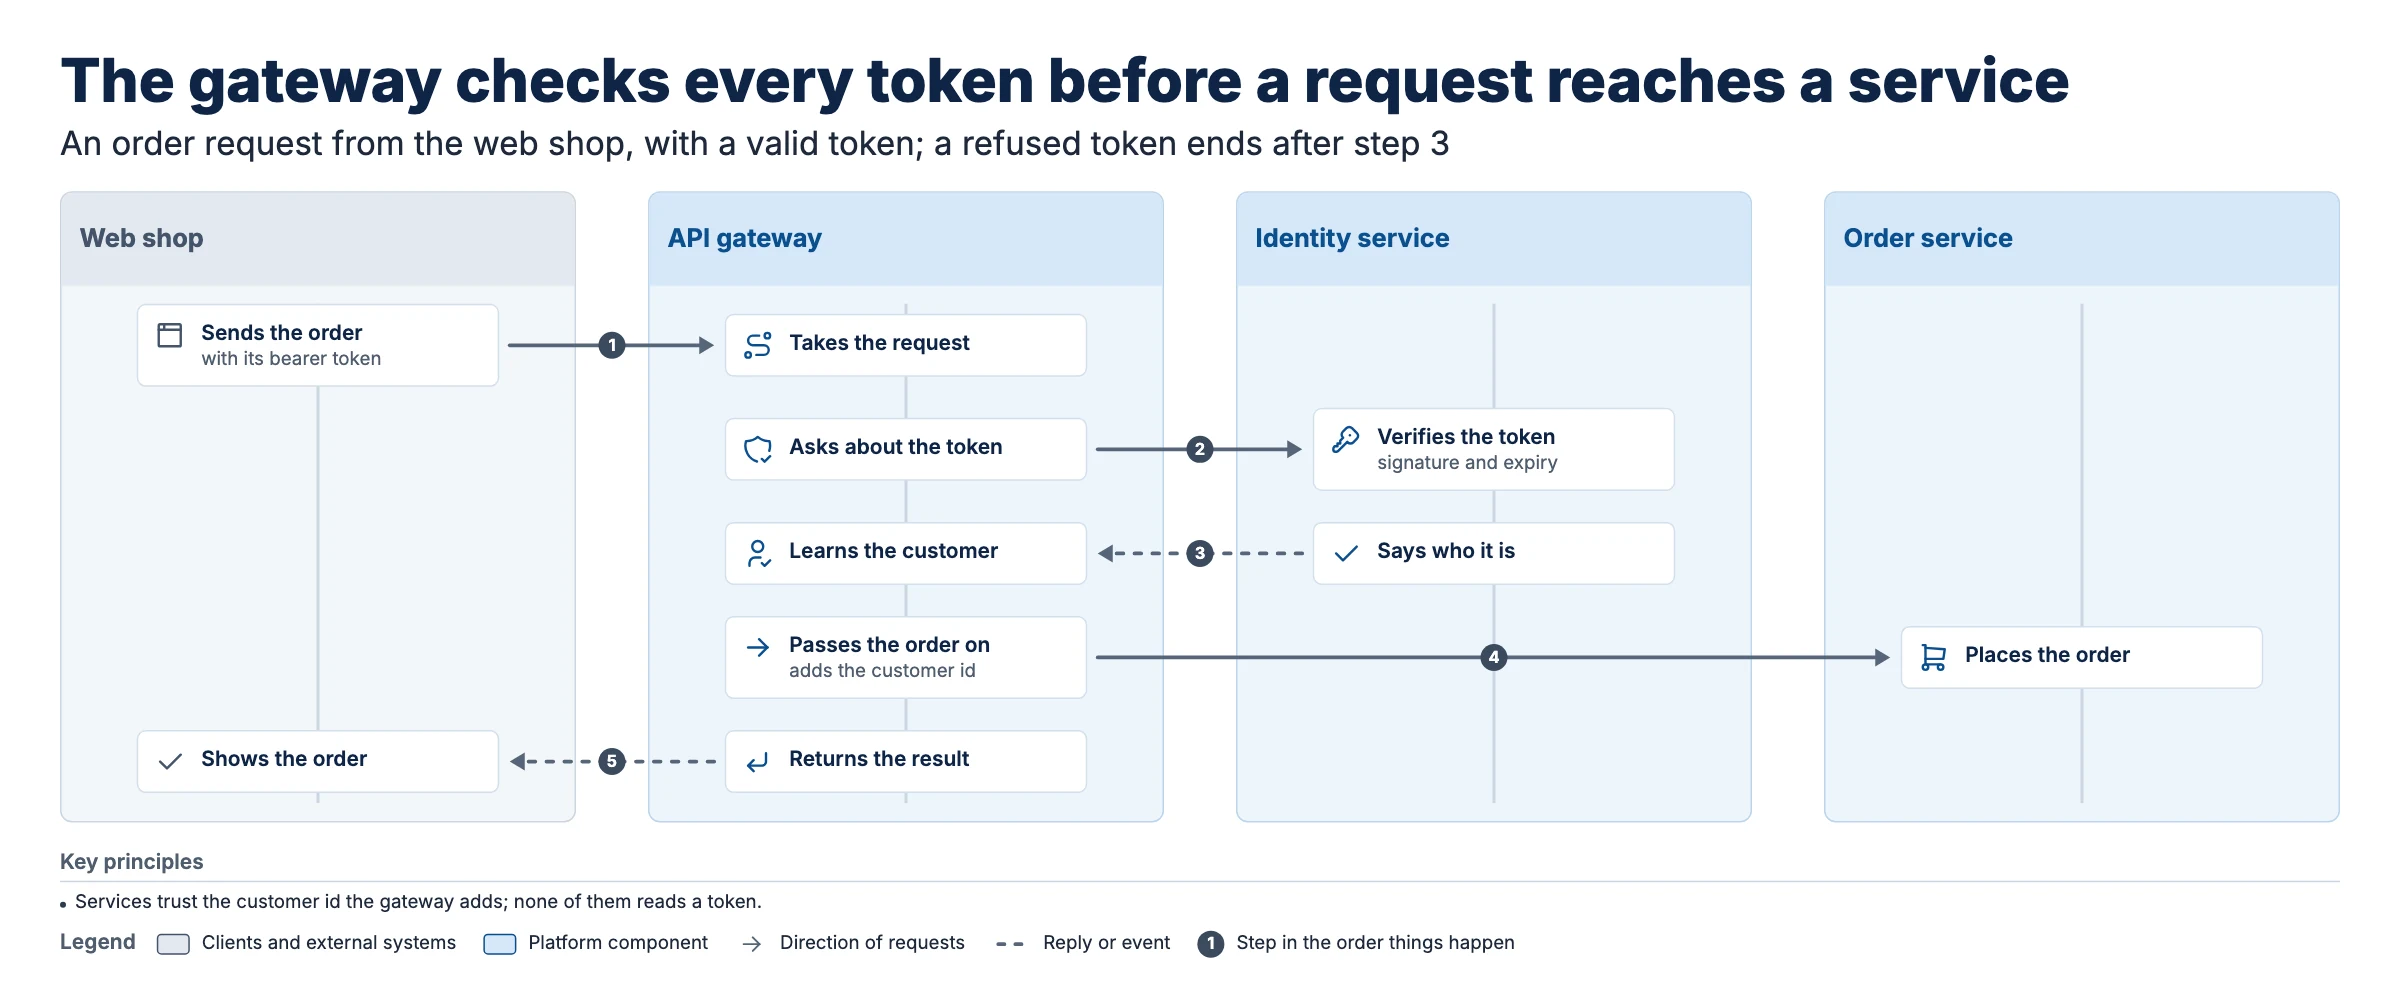
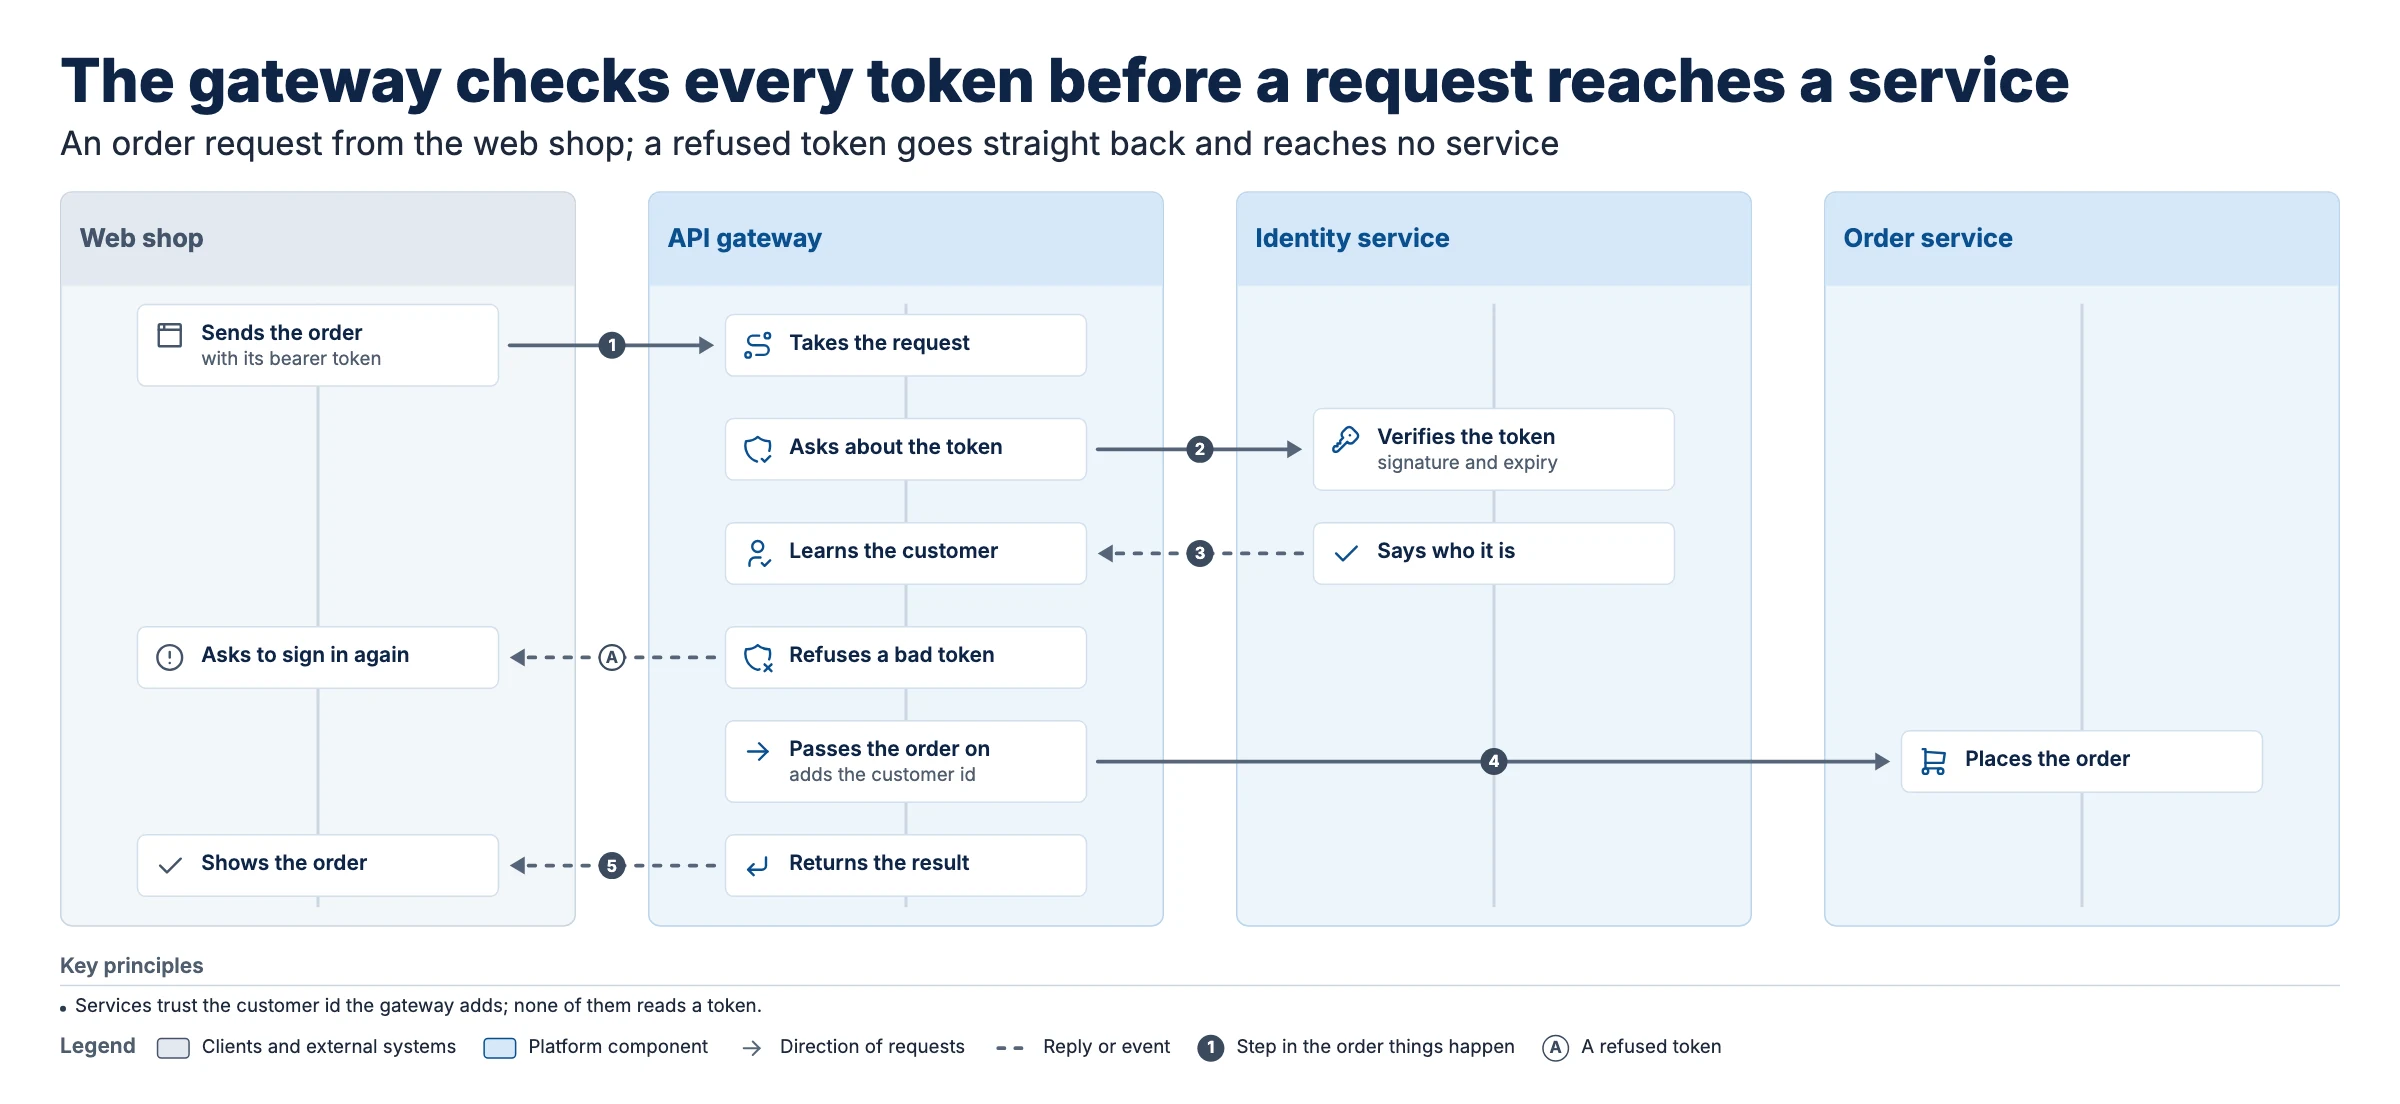
Letter one branch on a sequence, and draw it in the example
Five of six sequence plates in the last eval named a decline in the subtitle and drew nothing: the layout kept to one
path, and its own example told of a refused token it did not draw. A drawn story on a sequence is now a branch off the
numbered order: its messages are lettered A, B, the numbers pass over them, and the legend names it. The example draws
its refused token that way (its picture changes: one more row, badge A), and the guide says the caller from outside is
`external`, as the legend already calls that colour.

diff --git a/schemantic/archetypes/sequence.py b/schemantic/archetypes/sequence.py
@@ -1,7 +1,11 @@
 """sequence: who talks to whom, in what order, for one request. One column per participant with its lifeline, time
 running down; a card's `row` says when it acts, and each message is an arrow between two cards in one row, numbered by
-row. A card is what that participant does at that moment."""
+row. A card is what that participant does at that moment. A drawn story is a branch off that order (a decline, a refusal):
+its messages are lettered, and the numbers pass over them."""
 from __future__ import annotations
+
+from itertools import pairwise
+from string import ascii_uppercase
 
 from ..findings import finding
 from . import Archetype, GridSpec
@@ -40,6 +44,8 @@ class Sequence(Archetype):
                 out.append(finding("layout", p["id"], "every card on a lifeline needs `row`, the moment it acts"))
             for r in sorted({r for r in rows if r and rows.count(r) > 1}):
                 out.append(finding("layout", p["id"], f"two cards in row {r}; a participant does one thing per row"))
+        drawn = [n for n, s in enumerate(spec.get("stories", [])) if s.get("draw")]
+        out += [finding("layout", f"stories/{n}", "a sequence letters one branch; a second branch is a second plate") for n in drawn[1:]]
         taken: dict[int, str] = {}
         for i, f in enumerate(spec.get("flows", [])):
             a, b = at.get(f["from"]), at.get(f["to"])
@@ -66,12 +72,14 @@ class Sequence(Archetype):
         return set(spec["layout"]["participants"])
 
     def expand(self, spec: dict) -> dict:
-        """Number the messages by row, unless a drawn story numbers its own route."""
-        if any(s.get("draw") for s in spec.get("stories", [])):
-            return spec
+        """Number the messages by row. A drawn story is a branch: its messages get letters, and the numbers pass over them."""
         at = self.where(spec)
-        order = sorted({at[f["from"]][1] for f in spec.get("flows", []) if f["from"] in at})
-        return {**spec, "flows": [{**f, "step": f.get("step") or order.index(at[f["from"]][1]) + 1} for f in spec.get("flows", [])]}
+        branch = next((s["path"] for s in spec.get("stories", []) if s.get("draw")), [])
+        letter = {pair: ascii_uppercase[i] for i, pair in enumerate(pairwise(branch))}
+        pair = lambda f: (f["from"], f["to"])  # noqa: E731
+        order = sorted({at[f["from"]][1] for f in spec.get("flows", []) if f["from"] in at and pair(f) not in letter})
+        return {**spec, "flows": [{**f, "step": letter.get(pair(f)) or f.get("step") or order.index(at[f["from"]][1]) + 1}
+                                  for f in spec.get("flows", [])]}
 
     def panel_defaults(self, spec: dict, panel: dict) -> dict:
         if panel["id"] not in spec["layout"]["participants"]:

diff --git a/tests/test_archetypes.py b/tests/test_archetypes.py
@@ -43,17 +43,24 @@ def test_sequence_checks(fn, says):
 
 
 def test_a_lifeline_holds_twelve_cards_and_other_panels_six():
-    many = [{"name": f"Step {n}", "row": n, **({"id": "place"} if n == 4 else {})} for n in range(1, 13)]
+    many = [{"name": f"Step {n}", "row": n, **({"id": "place"} if n == 5 else {})} for n in range(1, 13)]
     assert not details(SEQUENCE, lambda s: panel(s, "orders").update(cards=many))
     assert details(SEQUENCE, lambda s: panel(s, "orders").update(cards=[*many, {"name": "x", "row": 12}]))  # the schema's cap
     assert any("a panel holds 6" in d for d in details(MAP, lambda s: panel(s, "sell").update(cards=[{"name": f"C{n}"} for n in range(7)])))
 
 
-def test_sequence_numbers_its_messages_by_row_and_a_drawn_story_keeps_its_own():
+def test_sequence_numbers_its_messages_by_row_and_letters_one_branch():
+    """The example's refused token is a drawn story: its message is lettered, and the numbers pass over it."""
     arche = archetypes.get("sequence")
-    assert [f["step"] for f in arche.expand(SEQUENCE)["flows"]] == [1, 2, 3, 4, 5]
-    drawn = {**SEQUENCE, "stories": [{"name": "Out", "path": ["send", "take"], "draw": True}]}
-    assert "step" not in arche.expand(drawn)["flows"][0]
+    expanded = sp.number_story(arche.expand(SEQUENCE))
+    assert [f["step"] for f in expanded["flows"]] == [1, 2, 3, "A", 4, 5]
+    from schemantic.html import legend_entries
+    steps = [(e["mark"], e["label"]) for e in legend_entries(expanded, sp.load_locale("en")) if e["kind"] == "step"]
+    assert steps == [("1", "Step in the order things happen"), ("A", "A refused token")]
+    plain = {**SEQUENCE, "stories": []}
+    assert [f["step"] for f in arche.expand(plain)["flows"]] == [1, 2, 3, 4, 5, 6]
+    two = {**SEQUENCE, "stories": SEQUENCE["stories"] + [{"name": "Out", "path": ["send", "take"], "draw": True}]}
+    assert any("letters one branch" in f["detail"] for f in sp.check(two))
 
 
 @pytest.mark.parametrize("fn, says", [

diff --git a/schemantic/spec.py b/schemantic/spec.py
@@ -269,7 +269,7 @@ def story_findings(spec: dict, known: set[str]) -> list[dict]:
             for n in drawn[MAX_DRAWN:]]
     stepped = [(n, f) for n, f in enumerate(spec.get("flows", [])) if f.get("step")]
     if drawn:
-        out += [finding("story", f"flows/{n}", f"the drawn story numbers its own flows; drop this flow's step {f['step']}")
+        out += [finding("story", f"flows/{n}", f"a drawn story marks its own flows; drop this flow's step {f['step']}")
                 for n, f in stepped]
     # A story that is only checked is invisible: the reader sees the routes that are drawn. Flows numbered by hand, or by
     # the layout, already show their order.
@@ -310,7 +310,7 @@ def route_ends(spec: dict) -> list[dict]:
                 continue
             if cid not in ends:
                 out.append(finding("route-end", cid, f"the title or subtitle names '{name}', but no arrow reaches the card", level="warning"))
-            elif drawn and cid not in on_route:
+            elif drawn and cid not in on_route and not archetypes.REGISTRY[spec["archetype"]].numbers_itself:
                 more = "draw a second story through it" if len(drawn) < MAX_DRAWN else "take the drawn routes through it"
                 out.append(finding("route-end", cid, f"the title or subtitle names '{name}', but no drawn route passes the card",
                                    level="warning", hint=f"A reader looks for what the title names on the numbered route: {more} "

diff --git a/schemantic/html.py b/schemantic/html.py
@@ -81,9 +81,10 @@ def legend_entries(spec: dict, loc: dict, theme_css: str = "") -> list[dict]:
         if any(f.get("assumed") for f in flows):
             entries.append({"kind": "line", "key": "assumed", "label": lg["style_assumed"]})
         # A drawn story's steps are its route, so the legend names it: the first by its numbers, a second by its letters.
-        drawn = drawn_stories(spec)
+        # Where the layout numbers the arrows itself (a sequence), a drawn story is a branch, and takes the letters.
+        drawn = ([None] if arche.numbers_itself else []) + drawn_stories(spec)
         if any(isinstance(f.get("step"), int) for f in flows):
-            entries.append({"kind": "step", "key": "step", "mark": "1", "label": drawn[0]["name"] if drawn else lg["step"]})
+            entries.append({"kind": "step", "key": "step", "mark": "1", "label": drawn[0]["name"] if drawn and drawn[0] else lg["step"]})
         if any(isinstance(f.get("step"), str) for f in flows):
             entries.append({"kind": "step", "key": "step-second", "mark": "A", "label": drawn[1]["name"]})
     things = [p for p in spec["panels"]] + [c for p in spec["panels"] for c in p.get("cards", []) + p.get("patterns", [])]

diff --git a/tests/test_spec.py b/tests/test_spec.py
@@ -466,7 +466,7 @@ def test_a_plate_draws_two_stories_at_most_and_they_own_the_steps():
     spec["flows"][0]["step"] = 7
     found = [(f["id"], f["detail"]) for f in sp.check(spec) if f["check"] == "story"]
     assert [i for i, _ in found if i.startswith("stories")] == ["stories/2"]
-    assert ("flows/0", "the drawn story numbers its own flows; drop this flow's step 7") in found
+    assert ("flows/0", "a drawn story marks its own flows; drop this flow's step 7") in found
 
 
 def test_roadmap_lanes_tint_now_and_arrows_run_forward():

diff --git a/references/archetypes.md b/references/archetypes.md
@@ -189,7 +189,12 @@ layout:
 - Every card has a `row`; one card per participant per row, one message per row, up to 12 on a lifeline. A step with no
   message is a card alone. Name a card for what happens, in a word or two: six lifelines leave little width.
 - A message crosses other lifelines only where their row is empty: lint names the card in the way.
-- `style: async` draws a reply or an event dashed. Keep it to one path: a second path is a second plate.
+- `style: async` draws a reply or an event dashed. The participant that starts it from outside (an app, a browser, a
+  partner) is `external`, the colour the legend calls clients and external systems.
+- Keep to one path, with one branch at most. A branch the title or subtitle names (a decline, a refusal) is drawn, not only
+  told: a row of its own right after the step that decides, cards named for when it happens ("Refuses a bad token"), and
+  a `story` through it with `draw: true`. Its messages are lettered A, B, the numbers pass over them, and the legend names
+  the branch. A second branch is a second plate.
 - The title claims the order that matters ("The gateway checks every token before a request reaches a service").
 - Example: `examples/token-check-sequence.yaml`.
 

diff --git a/CHANGELOG.md b/CHANGELOG.md
@@ -5,6 +5,9 @@ All notable changes to this project. The format follows [Keep a Changelog](https
 ## [Unreleased]
 
 ### Added
+- A `sequence` draws one branch: a drawn story there is a branch off the numbered order (a decline, a refusal), lettered A, B
+  while the numbers pass over it, and named in the legend. Five of six sequence plates in the last eval named a decline in
+  the subtitle and drew nothing, as the example itself did; the example now draws its refused token.
 - Lint warns when the brief admits an assumption about who runs a thing while the panel it colours carries no `assumed`
   (`brief-only`). A reader never sees the brief, and "only the brief admits it" was the judges' most repeated truth defect.
   Replayed on the last eval, it fires on 12 plates: the judges faulted 7 for exactly this, 4 more are the same case
